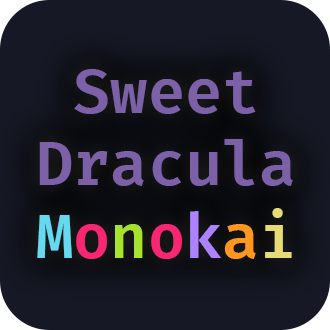
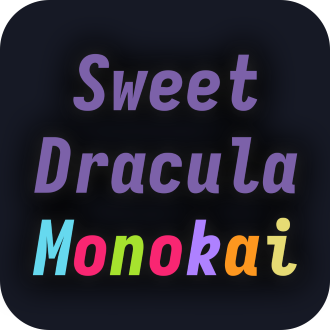
update presentation and changelog

Changed region(s): [[0.0909, 0.3939, 0.9091, 0.8485], [0.2121, 0.1515, 0.7879, 0.3636], [0.0909, 0.3939, 0.6667, 0.6061]]

diff --git a/README.md b/README.md
@@ -1,38 +1,42 @@
 <h1 align="center">Sweet Dracula Monokai</h1>
 <p align="center">
-    <a title="Preview Theme in vscode.dev" href="https://vscode.dev/theme/lefd.sweetdracula-monokai">
-        <img src="https://img.shields.io/badge/preview_in_vscode.dev-blue?style=for-the-badge&logo=visualstudiocode&color=007ACC">
-    </a>
-    <br>
     <a title="Visual Studio Marketplace Version" href="https://marketplace.visualstudio.com/items?itemName=lefd.sweetdracula-monokai">
-        <img src="https://img.shields.io/visual-studio-marketplace/v/lefd.sweetdracula-monokai?style=flat-square">
+        <img src="https://img.shields.io/visual-studio-marketplace/v/lefd.sweetdracula-monokai?style=for-the-badge&labelColor=11131c&color=8BE9FD">
     </a>
     <a title="Visual Studio Marketplace Installs" href="https://marketplace.visualstudio.com/items?itemName=lefd.sweetdracula-monokai">
-        <img src="https://img.shields.io/visual-studio-marketplace/i/lefd.sweetdracula-monokai?style=flat-square">
+        <img src="https://img.shields.io/visual-studio-marketplace/i/lefd.sweetdracula-monokai?style=for-the-badge&labelColor=11131c&color=8BE9FD">
     </a>
     <a title="Visual Studio Marketplace Downloads" href="https://marketplace.visualstudio.com/items?itemName=lefd.sweetdracula-monokai">
-        <img src="https://img.shields.io/visual-studio-marketplace/d/lefd.sweetdracula-monokai?style=flat-square">
+        <img src="https://img.shields.io/visual-studio-marketplace/d/lefd.sweetdracula-monokai?style=for-the-badge&labelColor=11131c&color=8BE9FD">
     </a>
     <a title="Open VSX Downloads" href="https://open-vsx.org/extension/lefd/sweetdracula-monokai">
-        <img src="https://img.shields.io/open-vsx/dt/lefd/sweetdracula-monokai?label=Open%20VSX%20Downloads&style=flat-square">
+        <img src="https://img.shields.io/open-vsx/dt/lefd/sweetdracula-monokai?label=Open%20VSX%20Downloads&style=for-the-badge&labelColor=11131c&color=8BE9FD">
     </a>
 </p>
 
 <p align="center">
-    <b>Sweet Dracula Monokai</b> - PROxZIMA's <a href="https://github.com/PROxZIMA/sweet-dracula">Sweet Dracula theme</a> with enhanced readability and Monokai-style syntax highlighting.
+    PROxZIMA's <a href="https://github.com/PROxZIMA/sweet-dracula">Sweet Dracula theme</a> with enhanced readability and Monokai-style syntax highlighting.
     <br>
     Available for <a href="https://marketplace.visualstudio.com/items?itemName=lefd.sweetdracula-monokai">VS Code</a> and <a href="https://open-vsx.org/extension/lefd/sweetdracula-monokai">Code - OSS</a>.
 </p>
 
-![VS Code](assets/screenshot-1.1.4.png)
+<p align="center">
+    <a title="Preview Theme in vscode.dev" href="https://vscode.dev/theme/lefd.sweetdracula-monokai">
+        <img src="https://img.shields.io/badge/preview_in_vscode.dev-blue?style=for-the-badge&logo=visualstudiocode&color=50FA7B&logoColor=000000">
+    </a>
+</p>
+
+![VS Code](assets/screenshot.png)
 
 ## Installation
 
 1. in VS Code, launch the Quick Open panel (`Ctrl + P` / `⌘ P`)
 2. execute the following command:
+
     ```
     ext install lefd.sweetdracula-monokai
     ```
+
 3. ⭐[rate the theme 5 stars](https://marketplace.visualstudio.com/items?itemName=lefd.sweetdracula-monokai&ssr=false#review-details)
 
 ### Alternate Method
@@ -44,18 +48,24 @@
 
 ## Editor Settings in Screenshot
 
-Font used: [Fira Code](https://github.com/tonsky/FiraCode) with ligatures.
+Font used: [Iosevka Extended](https://github.com/be5invis/Iosevka) with ligatures.  
+Icon theme: vscode-icons ([GitHub](https://github.com/vscode-icons/vscode-icons) - [VS Marketplace](https://marketplace.visualstudio.com/items?itemName=vscode-icons-team.vscode-icons) - [Open VSX](https://open-vsx.org/extension/vscode-icons-team/vscode-icons))
+
+VS Code settings:
 
 ```json
-"editor.fontFamily": "Fira Code",
-"editor.fontLigatures": "'ss03', 'ss07', 'ss09', 'ss10', 'cv14', 'cv25', 'cv26', 'cv27', 'cv32'",
+"editor.fontFamily": "Iosevka Expanded",
+"editor.fontLigatures": "'ss05', 'calt' 0, 'dlig' 1, 'cv10' 10, 'cv31' 3, 'cv34' 8, 'cv25' 2, 'cv50' 2, 'cv71' 2, 'cv72' 1, 'cv78' 7, 'cv90' 1", 
 "editor.fontSize": 15,
 "editor.fontWeight": "400",
 "editor.lineHeight": 25,
+"terminal.integrated.fontFamily": "Iosevka Term Expanded",
+"terminal.integrated.fontWeight": "400",
+"terminal.integrated.fontSize": 14,
+"debug.console.fontFamily": "Iosevka Expanded",
 "editor.cursorWidth": 3,
-"editor.bracketPairColorization.enabled": true,
 "editor.guides.bracketPairs": "active",
-"editor.guides.bracketPairsHorizontal": "active"
+"editor.guides.bracketPairsHorizontal": "active",
 "editor.renderWhitespace": "trailing",
 ```
 

diff --git a/CHANGELOG.md b/CHANGELOG.md
@@ -1,5 +1,12 @@
 # Change Log
 
+## 1.1.9
+
+- update logo and readme
+- improve readability of unfocused active tab
+- support updated diff editor
+- minor tweaks
+
 ## 1.1.8
 
 - fixes
